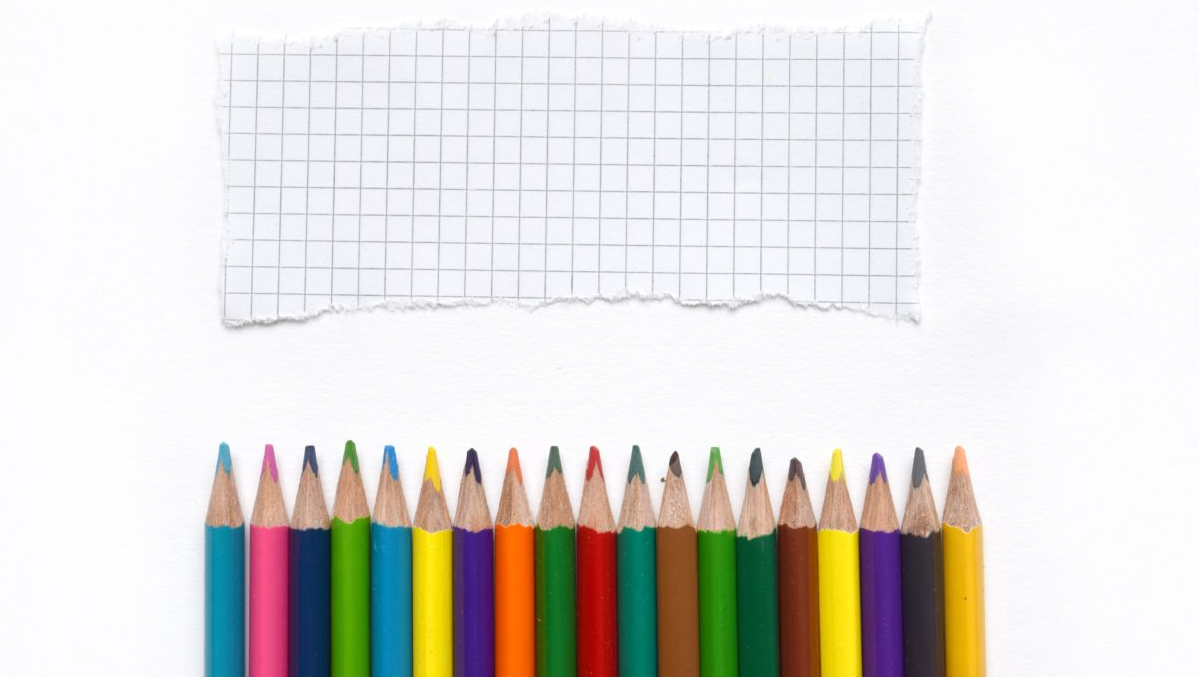
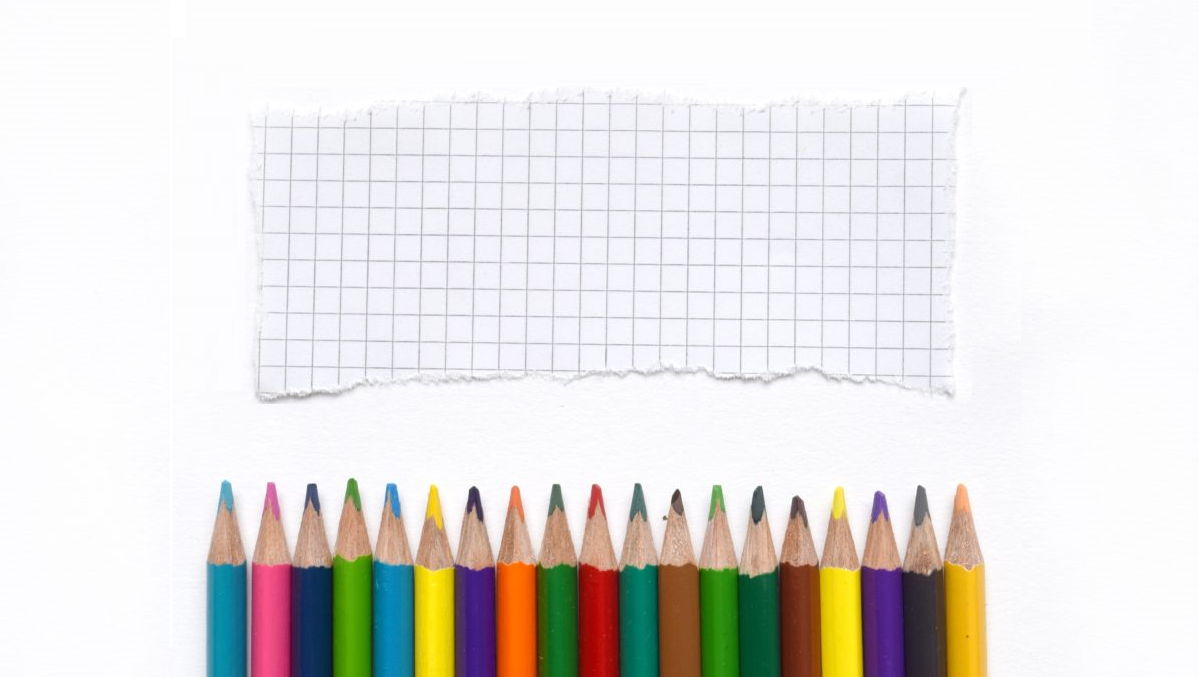
Modify Home-About scss

diff --git a/src/SCSS/components/home.scss b/src/SCSS/components/home.scss
@@ -9,17 +9,19 @@
 
 /* Introduction */
 .intro-container {
-  background: url('../../images/color-pencils.png') no-repeat;
+  background-image: url('../../images/color-pencils.png');
+  background-repeat: no-repeat;
   background-size: cover; 
+  background-position: center;
   height: $standardHeight * 0.73;
 }
 
 .intro {
-  @include fontStyle($cursive, $mediumFont, $semibold, #000);
-  width: 60%;
+  @include fontStyle($cursive, $mediumFont, $semibold, #0c0c0c);
+  width: 55%;
   height: 40%;
-  margin-top: 6%;
-  margin-left: 20%;
+  margin-top: 7%;
+  margin-left: 23%;
   line-height: 1.6;
 }
 
@@ -52,16 +54,16 @@
 
 /* About */
 .home-about {
-  height: $standardHeight * 0.7;
   width: $standardWidth;
+  height: $standardHeight * 0.7;
   background-color: $themeColor;
   @include flexStyle($justifyContent: space-evenly);
 }
 
 .home-about-header {
   width: $standardWidth * 0.7;
+  height: 30%;
   @include flexStyle($direction: row, $justifyContent: space-between);
-  margin-bottom: 4rem;
   color: #fff;
   h2 {
     @extend %h2Color;

diff --git a/src/SCSS/components/roadMapCarousel.scss b/src/SCSS/components/roadMapCarousel.scss
@@ -3,12 +3,14 @@
 @import "../helpers/mixins";
 
 .roadmap-carousel {
+  border: 1px solid red;
   width: 70%;
-  height: 50%;
+  height: 70%;
   @include flexStyle($direction: row);
 }
 
 .roadmap-carousel-left, .roadmap-carousel-right {
+  border: 1px solid black;
   img {
     width: 2rem;
     height: auto;
@@ -16,7 +18,9 @@
 }
 
 .roadmap-carousel-items {
-  flex-grow: 2;
+  border: 1px solid black;
+  width: 80%;
+  //flex-grow: 2;
   @include flexStyle($direction: row);
 
 }

diff --git a/src/SCSS/components/navBar.scss b/src/SCSS/components/navBar.scss
@@ -48,7 +48,7 @@
     background-color: $themeColor;
     color: #fff;
     padding: 0.1rem 0.3rem;
-    border-radius: 5%;
+    border-radius: 0.3rem;
   }
 }
 
